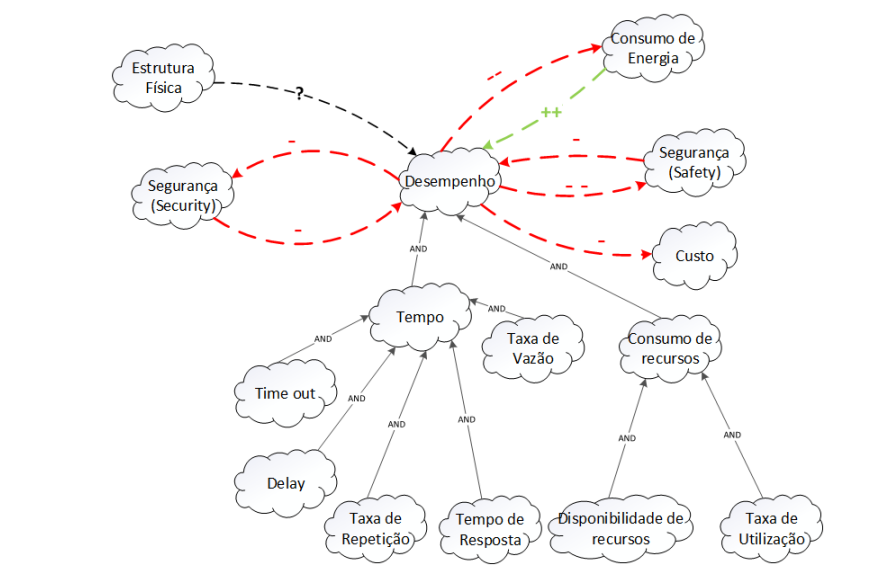
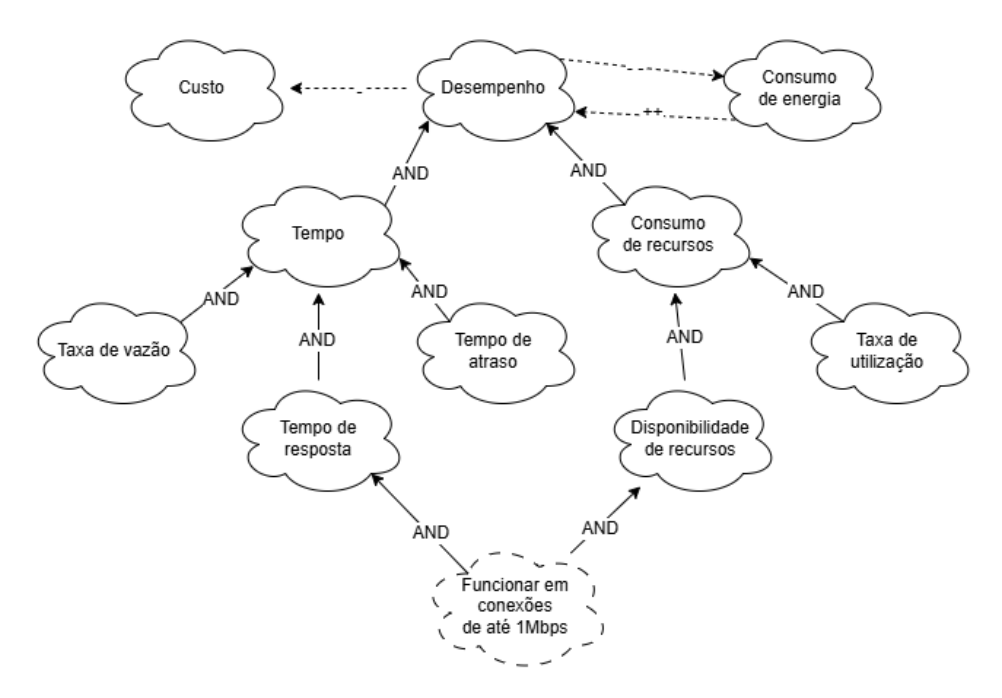
Novo SIG e nova tabela de impactos

diff --git a/docs/modelagem/agil/NFR.md b/docs/modelagem/agil/NFR.md
@@ -196,11 +196,11 @@ A seguir, na Tabela X, temos a avaliação da propagação dos impactos relativa
 
 ### Diagrama de Desempenho(SIG)
 
-**Figura 03 : Diagram de Desempenho(SIG)**
+**Figura XX : Diagram de Desempenho(SIG)**
 
 ![DiagramaDesempenho](../../assets/modelagem/casos_de_uso/agil/diagramaDesempenho.png)
 
-**Fonte**: Adaptado Figura 27 SILVA, Reinaldo Antônio da. NFR4ES: Um Catálogo de Requisitos Não-Funcionais para Sistemas Embarcados. UFPE, 2019.
+**Autor**: [Gabriel Flores](https://github.com/Gabrielfcoelho)
 
 ### Requisitos não funcionais - desempenho
 Na Tabela X, estão listados os RNF presentes no NFR Famework de Desempenho :
@@ -209,7 +209,7 @@ Na Tabela X, estão listados os RNF presentes no NFR Famework de Desempenho :
 
 | RNF | Descrição                                 | Classificação | Origem        |
 |-----|-------------------------------------------|---------------|---------------|
-| RNF17 | Desempenho otimizado para internet limitada | Desempenho    | Introspecção  |
+| [RNF17](../../elicitacao/requisitos_elicitados.md) | Desempenho otimizado para internet limitada | Desempenho    | Introspecção  |
 
 **Autor**: [Gabriel Flores](https://github.com/Gabrielfcoelho)
 
@@ -219,16 +219,19 @@ A seguir, na Tabela X, temos a avaliação da propagação dos impactos relativa
 
 **Tabela X - Propagação dos impactos**
 
-| Requisito Origem     | Requisito Alvo           | Tipo de Impacto           | Símbolo | Descrição                                                                 |
-|----------------------|--------------------------|---------------------------|--------|---------------------------------------------------------------------------|
-| Desempenho           | Segurança (Safety)       | Fortemente Negativo       | --     | Melhoria no desempenho pode comprometer diretamente a segurança física    |
-| Desempenho           | Segurança (Security)     | Parcialmente Negativo     | -      | Otimizações de desempenho podem abrir brechas na segurança lógica         |
-| Desempenho           | Consumo de Energia       | Fortemente Negativo       | --     | Mais desempenho costuma requerer mais energia                             |
-| Desempenho           | Custo                    | Parcialmente Negativo     | -      | Melhor desempenho tende a aumentar o custo do sistema                     |
-| Consumo de Energia   | Desempenho               | Fortemente Positivo       | ++     | Reduzir o consumo de energia melhora o desempenho geral                   |
-| Estrutura Física     | Desempenho               | Impacto Desconhecido      | ?      | A relação entre estrutura física e desempenho não é bem definida          |
-| Segurança (Safety)   | Desempenho               | Parcialmente Negativo     | -      | Requisitos de segurança podem limitar o desempenho                        |
-| Segurança (Security) | Desempenho               | Parcialmente Negativo     | -      | Medidas de segurança podem introduzir atrasos ou limitações               |
+| Requisito Origem                   | Requisito Alvo           | Tipo de Impacto           | Símbolo | Descrição                                                                 |
+|------------------------------------|--------------------------|---------------------------|--------|---------------------------------------------------------------------------|
+| Funcionar em conexões de até 1Mbps | Tempo de Resposta        | Contribuição Positiva     | +      | Requisitos de leveza melhoram tempo de resposta                          |
+| Tempo de Resposta                 | Tempo                    | Contribuição Positiva     | +      | Redução no tempo de resposta melhora o tempo total                       |
+| Tempo                             | Desempenho               | Refinamento AND           | AND    | É necessário bom controle de tempo para garantir desempenho              |
+| Consumo de Recursos               | Desempenho               | Refinamento AND           | AND    | Requisitos de eficiência de recursos contribuem para o desempenho        |
+| Tempo de Atraso                   | Tempo                    | Refinamento AND           | AND    | O tempo de atraso influencia diretamente o tempo                         |
+| Disponibilidade de Recursos       | Consumo de Recursos      | Refinamento AND           | AND    | Melhor disponibilidade reduz gargalos                                    |
+| Taxa de Utilização                | Consumo de Recursos      | Refinamento AND           | AND    | Alta taxa de uso impacta o uso total de recursos                         |
+| Taxa de Vazão                     | Tempo                    | Refinamento AND           | AND    | Influencia o tempo de processamento das tarefas                          |
+| Desempenho                        | Custo                    | Contribuição Negativa     | -      | Maior desempenho pode aumentar o custo do sistema                        |
+| Desempenho                        | Consumo de Energia       | Contribuição Negativa     | -      | Melhor desempenho pode demandar mais energia                             |
+| Consumo de Energia                | Desempenho               | Contribuição Positiva     | ++     | Eficiência energética favorece o desempenho global                       |
 
 **Autor**: [Gabriel Flores](https://github.com/Gabrielfcoelho)
 
